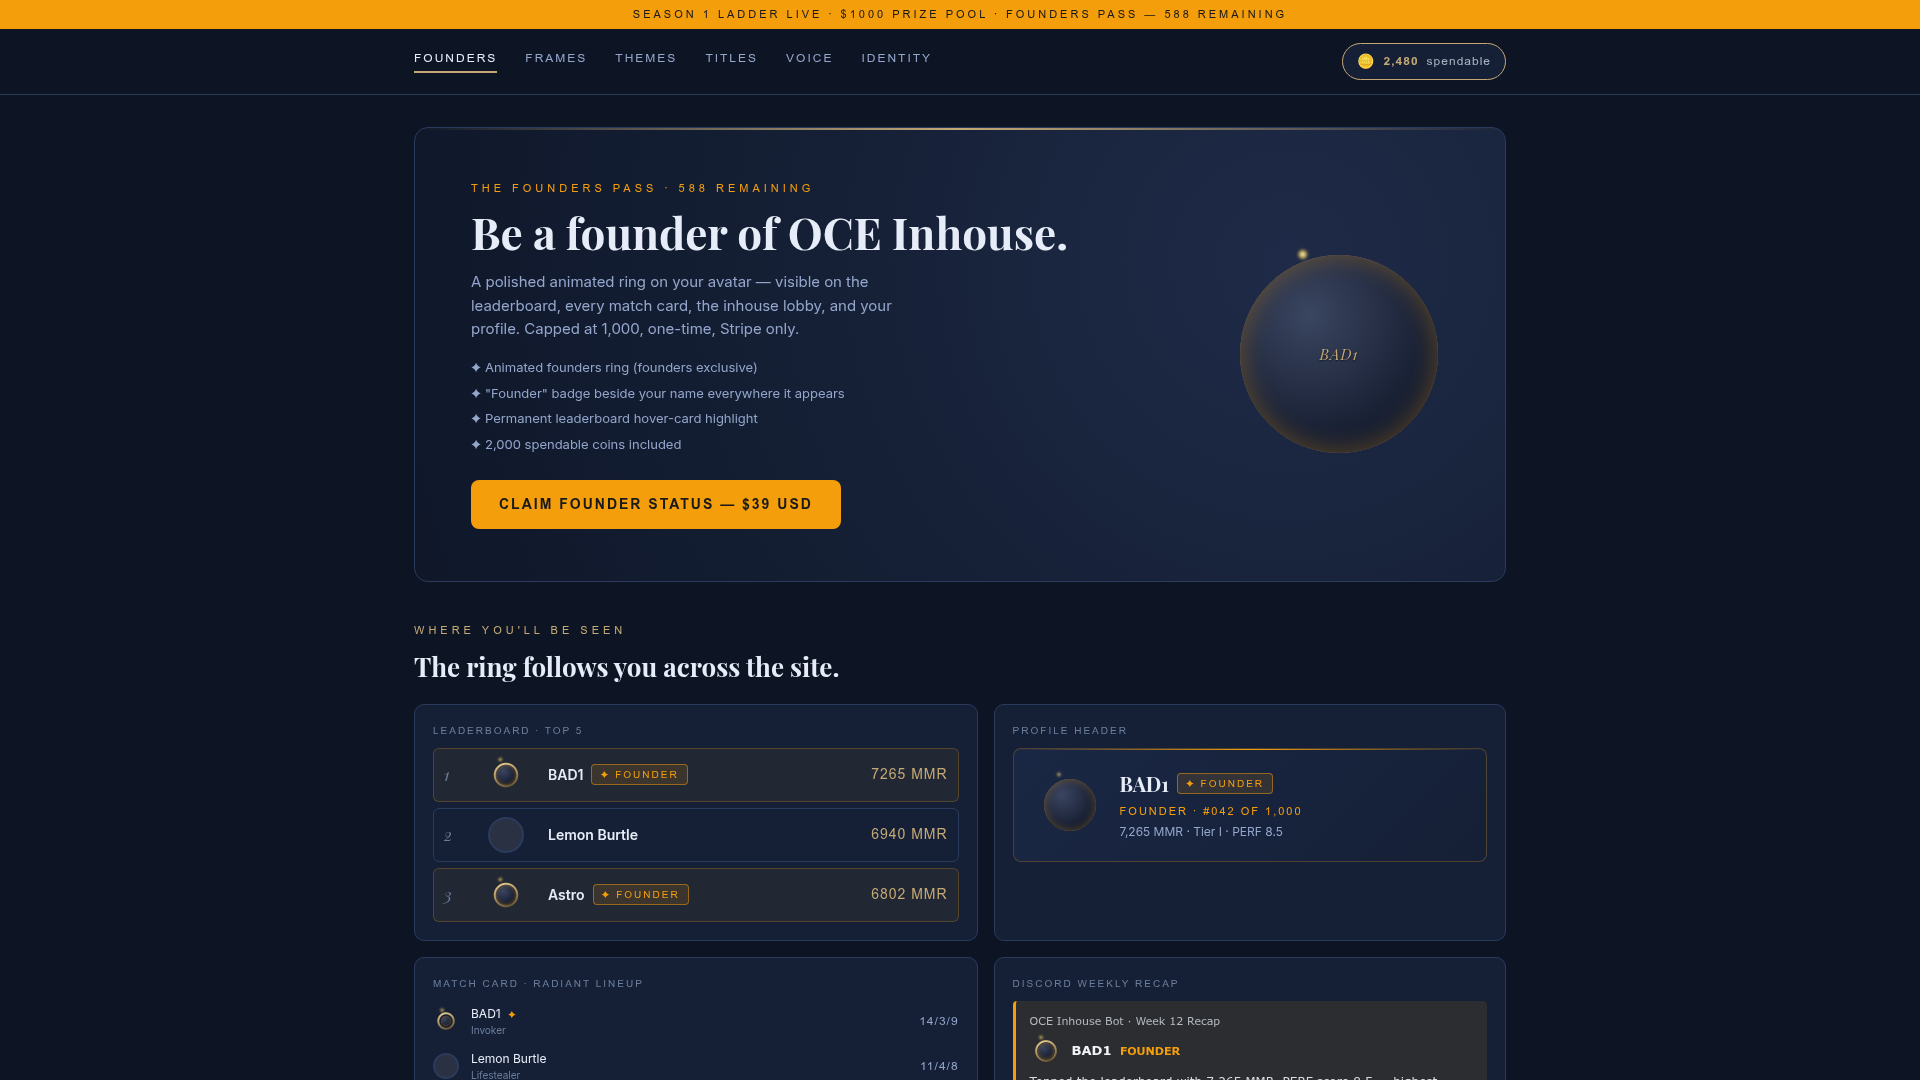
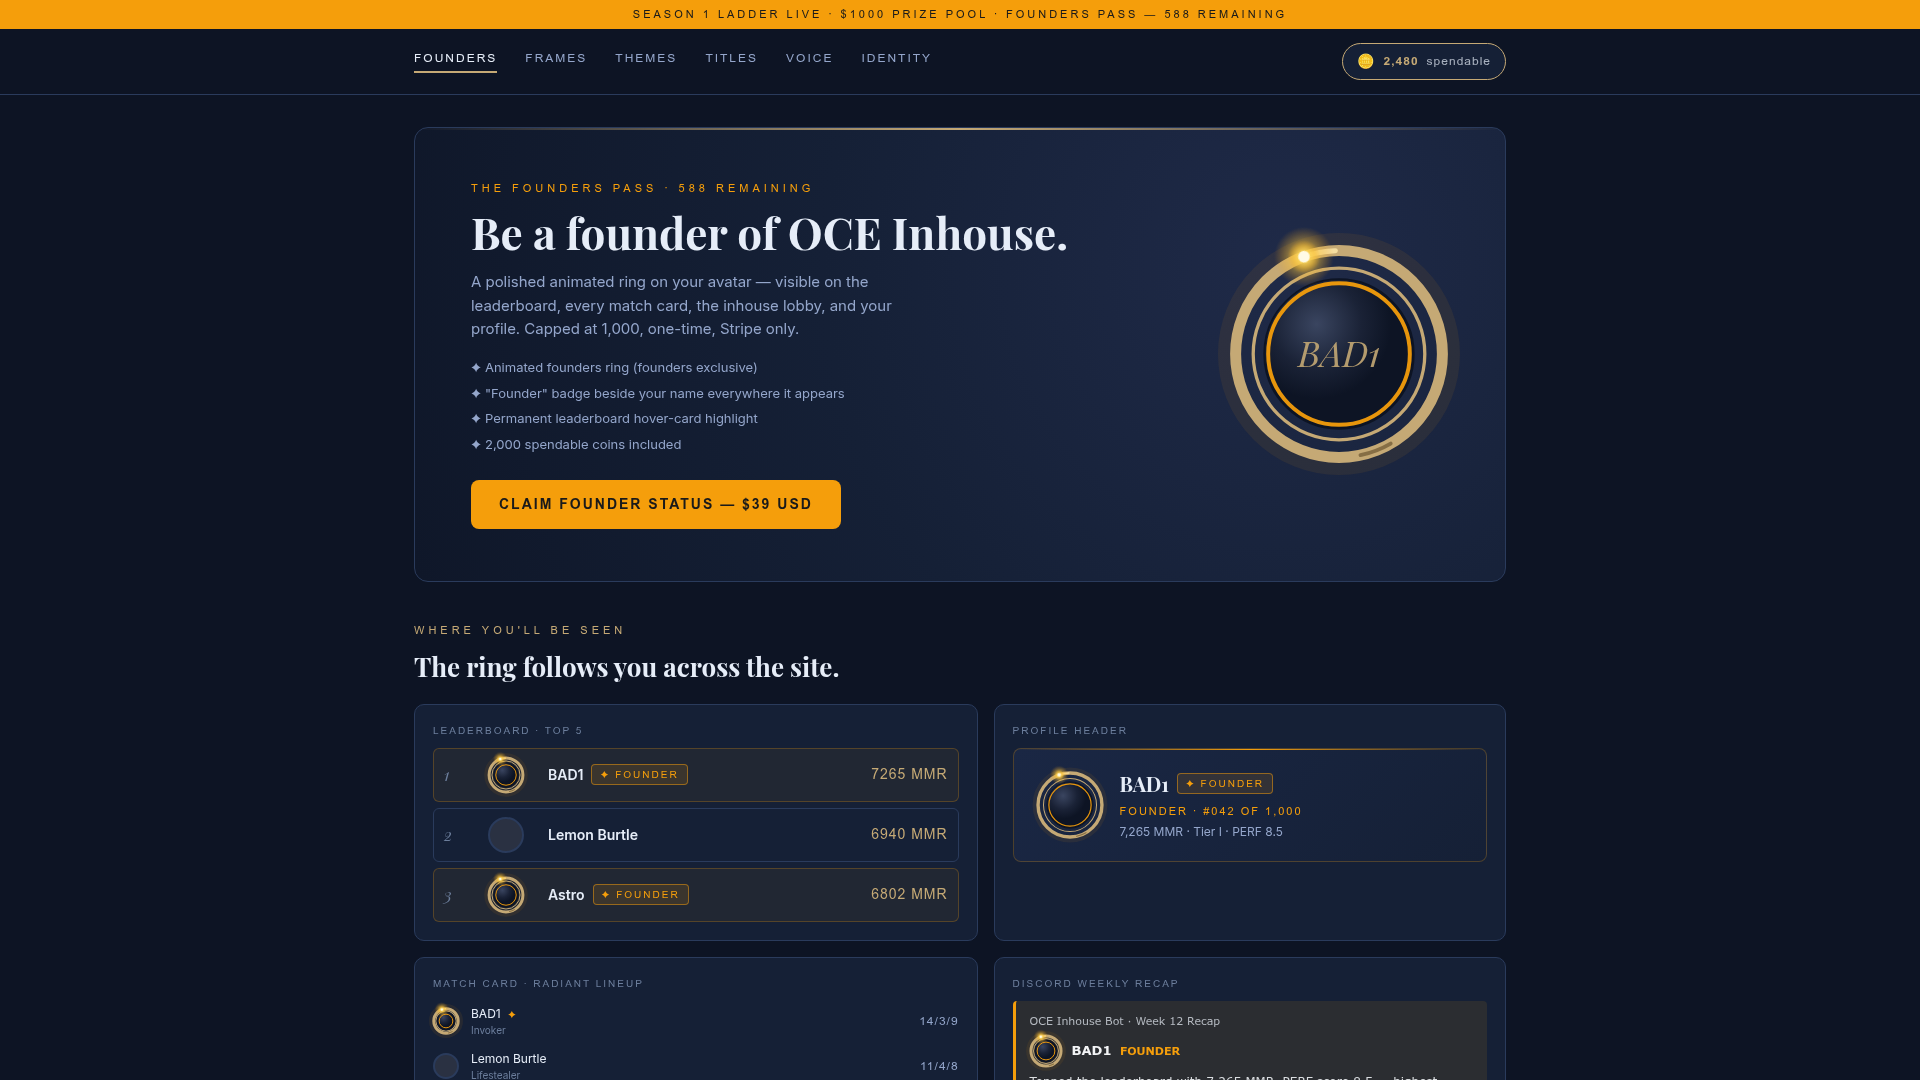
Make the ring component more visually prominent and fix SVG ID issues
Sanitize generated SVG IDs by removing colons, update stroke widths and colors for the ring component to improve visual prominence, and adjust gradient definitions in `Boutique.tsx`.

Replit-Commit-Author: Agent
Replit-Commit-Session-Id: f3afc924-c13e-498c-b6da-aa3811291343
Replit-Commit-Checkpoint-Type: full_checkpoint
Replit-Commit-Event-Id: df5a48bb-f79f-4b73-8f32-1c9daad9d2bb
Replit-Commit-Screenshot-Url: https://storage.googleapis.com/screenshot-production-us-central1/6ded6629-0a18-4cc2-a90e-29d9e31c91e7/f3afc924-c13e-498c-b6da-aa3811291343/Rp8nwSd
Replit-Helium-Checkpoint-Created: true

diff --git a/artifacts/mockup-sandbox/src/components/mockups/shop-redesign/Boutique.tsx b/artifacts/mockup-sandbox/src/components/mockups/shop-redesign/Boutique.tsx
@@ -93,54 +93,62 @@ function FramePreview({ ring }: { ring: string }) {
 // the outer rail slowly (18s). Inner avatar disc has a gentle amber glow
 // breathing on 8s. Polished, restrained, jewelry-quality — not a spinner.
 function FoundersRing({ size = 200 }: { size?: number }) {
-  const uid = React.useId();
+  const uid = React.useId().replace(/:/g, '');
   const cx = size / 2;
   const cy = size / 2;
-  const outerR = size * 0.46;
-  const innerR = size * 0.40;
-  const railStroke = Math.max(2, size * 0.032);
-  const innerStroke = Math.max(1, size * 0.008);
-  const avatarR = size * 0.36;
-  const orbitR = outerR;
-  const highlightR = Math.max(3, size * 0.06);
+  // Thicker, more present rail. Two close-set brass bands for a "double band" engraved feel.
+  const railOuter = size * 0.47;
+  const railInner = size * 0.39;
+  const railStroke = Math.max(3, size * 0.05);
+  const innerBandStroke = Math.max(1, size * 0.015);
+  const avatarR = size * 0.34;
+  const orbitR = railOuter;
+  const highlightR = Math.max(4, size * 0.075);
   return (
     <div style={{ position: 'relative', width: size, height: size }}>
-      <svg width={size} height={size} viewBox={`0 0 ${size} ${size}`} style={{ display: 'block' }}>
+      <svg width={size} height={size} viewBox={`0 0 ${size} ${size}`} style={{ display: 'block', overflow: 'visible' }}>
         <defs>
-          <linearGradient id={`brass-${uid}`} x1="0" y1="0" x2="1" y2="1">
-            <stop offset="0%" stopColor="#e3c98a"/>
-            <stop offset="35%" stopColor="#c5a975"/>
-            <stop offset="65%" stopColor="#8a7448"/>
-            <stop offset="100%" stopColor="#c5a975"/>
-          </linearGradient>
-          <radialGradient id={`disc-${uid}`} cx="0.35" cy="0.30">
+          <radialGradient id={`disc${uid}`} cx="0.35" cy="0.30">
             <stop offset="0%" stopColor="#3a4560"/>
             <stop offset="60%" stopColor="#1a2236"/>
             <stop offset="100%" stopColor="#0d1424"/>
           </radialGradient>
-          <radialGradient id={`glow-${uid}`}>
+          <radialGradient id={`glow${uid}`}>
             <stop offset="0%" stopColor="#fffbe6" stopOpacity="1"/>
-            <stop offset="40%" stopColor="#fcd34d" stopOpacity="0.7"/>
+            <stop offset="35%" stopColor="#fcd34d" stopOpacity="0.85"/>
             <stop offset="100%" stopColor="#f59e0b" stopOpacity="0"/>
           </radialGradient>
         </defs>
-        {/* Outer engraved brass rail */}
-        <circle cx={cx} cy={cy} r={outerR} fill="none" stroke={`url(#brass-${uid})`} strokeWidth={railStroke}/>
-        {/* Inner hairline brass rail */}
-        <circle cx={cx} cy={cy} r={innerR} fill="none" stroke="#c5a975" strokeWidth={innerStroke} opacity="0.55"/>
+        {/* Soft amber outer halo (static, very low opacity) */}
+        <circle cx={cx} cy={cy} r={railOuter + railStroke * 0.8} fill="none" stroke="#f59e0b" strokeWidth={railStroke * 1.6} opacity="0.08"/>
+        {/* Outer brass rail — bright, solid */}
+        <circle cx={cx} cy={cy} r={railOuter} fill="none" stroke="#c5a975" strokeWidth={railStroke}/>
+        {/* Inset highlight on the outer rail's upper arc (static glossy effect) */}
+        <circle cx={cx} cy={cy} r={railOuter} fill="none" stroke="#fbe6a8" strokeWidth={railStroke * 0.45}
+                strokeDasharray={`${Math.PI * railOuter * 0.55} ${Math.PI * railOuter * 4}`}
+                strokeDashoffset={Math.PI * railOuter * 0.45}
+                transform={`rotate(-110 ${cx} ${cy})`} opacity="0.85" strokeLinecap="round"/>
+        {/* Outer rail bottom shadow arc */}
+        <circle cx={cx} cy={cy} r={railOuter} fill="none" stroke="#6b5530" strokeWidth={railStroke * 0.35}
+                strokeDasharray={`${Math.PI * railOuter * 0.40} ${Math.PI * railOuter * 4}`}
+                strokeDashoffset={Math.PI * railOuter * 0.30}
+                transform={`rotate(60 ${cx} ${cy})`} opacity="0.7" strokeLinecap="round"/>
+        {/* Inner brass band */}
+        <circle cx={cx} cy={cy} r={railInner} fill="none" stroke="#c5a975" strokeWidth={innerBandStroke}/>
         {/* Avatar disc */}
-        <circle cx={cx} cy={cy} r={avatarR} fill={`url(#disc-${uid})`}/>
-        {/* Slow amber breathing glow inside the disc */}
-        <circle cx={cx} cy={cy} r={avatarR} fill="none" stroke="#f59e0b" strokeWidth={Math.max(1, size * 0.012)} opacity="0.35" style={{ animation: 'fp-breathe 8s ease-in-out infinite', transformOrigin: 'center' }}/>
+        <circle cx={cx} cy={cy} r={avatarR} fill={`url(#disc${uid})`} stroke="#0d1424" strokeWidth={Math.max(1, size * 0.008)}/>
+        {/* Slow amber breathing glow just inside the avatar edge */}
+        <circle cx={cx} cy={cy} r={avatarR - Math.max(2, size * 0.018)} fill="none" stroke="#f59e0b" strokeWidth={Math.max(1, size * 0.018)} opacity="0.45" style={{ animation: 'fp-breathe 8s ease-in-out infinite' }}/>
         {/* Slow travelling highlight — orbits the outer rail at 18s */}
         <g style={{ transformOrigin: `${cx}px ${cy}px`, animation: 'fp-sweep 18s linear infinite' }}>
-          <circle cx={cx} cy={cy - orbitR} r={highlightR} fill={`url(#glow-${uid})`}/>
+          <circle cx={cx} cy={cy - orbitR} r={highlightR * 1.8} fill={`url(#glow${uid})`} opacity="0.7"/>
+          <circle cx={cx} cy={cy - orbitR} r={highlightR} fill={`url(#glow${uid})`}/>
+          <circle cx={cx} cy={cy - orbitR} r={highlightR * 0.35} fill="#fffbe6"/>
         </g>
         {size >= 90 ? (
-          <text x={cx} y={cy + size * 0.025} textAnchor="middle"
+          <text x={cx} y={cy + size * 0.06} textAnchor="middle"
                 fontFamily="Playfair Display, Georgia, serif" fontStyle="italic"
-                fontSize={size * 0.18} fill="#c5a975" opacity="0.85"
-                style={{ letterSpacing: 1 }}>
+                fontSize={size * 0.16} fill="#c5a975" opacity="0.9">
             BAD1
           </text>
         ) : null}
